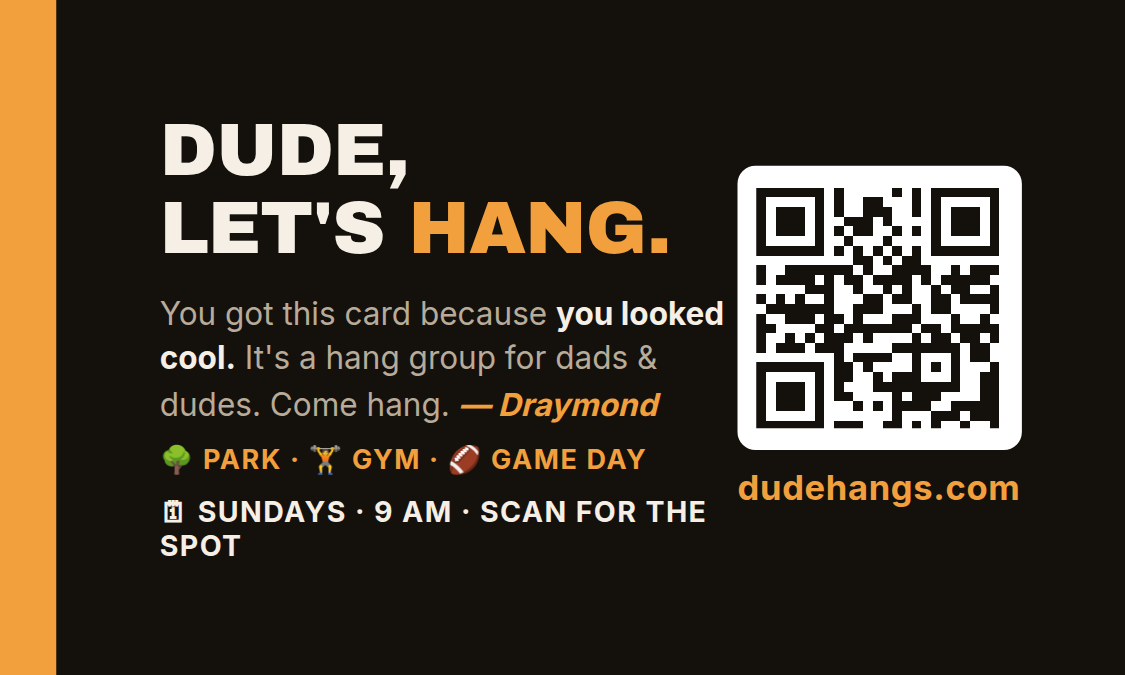
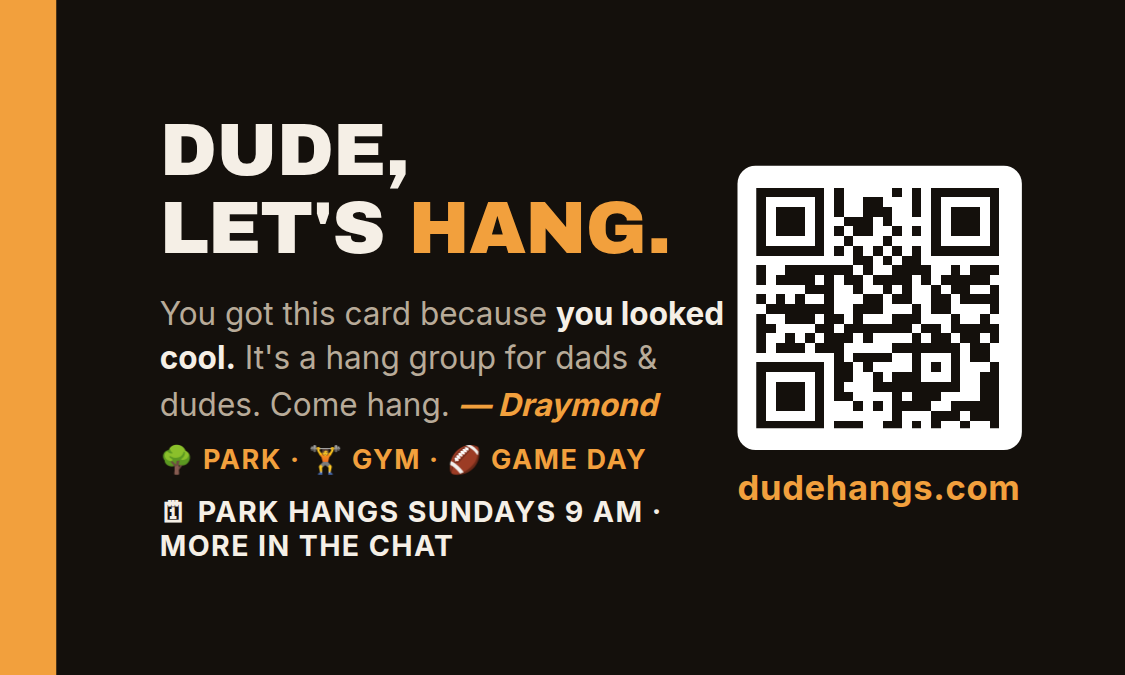
Card schedule line: attribute Sundays 9 AM to park hangs specifically
Claude-Session: https://claude.ai/code/session_01P9n5UKawwvj4epkGoSy427

Changed region(s): [[0.1244, 0.7156, 0.6222, 0.84]]

diff --git a/cards.html b/cards.html
@@ -130,7 +130,7 @@
       <h2>Dude,<br>let's <span class="pop">hang.</span></h2>
       <p class="why">You got this card because <strong>you looked cool.</strong> It's a hang group for dads &amp; dudes. Come hang. <span class="sig">— Draymond</span></p>
       <p class="hangs">🌳 Park · 🏋 Gym · 🏈 Game Day</p>
-      <p class="when">🗓 Sundays · 9 AM · scan for the spot</p>
+      <p class="when">🗓 Park hangs Sundays 9 AM · more in the chat</p>
     </div>
     <div class="right">
       <div class="qr"><svg xmlns="http://www.w3.org/2000/svg" viewBox="0 0 25 25" shape-rendering="crispEdges"><path d="M0 0h7v1H0zM8 0h1v1H8zM14 0h1v1H14zM16 0h1v1H16zM18 0h7v1H18zM0 1h1v1H0zM6 1h1v1H6zM8 1h1v1H8zM11 1h2v1H11zM16 1h1v1H16zM18 1h1v1H18zM24 1h1v1H24zM0 2h1v1H0zM2 2h3v1H2zM6 2h1v1H6zM8 2h1v1H8zM11 2h3v1H11zM16 2h1v1H16zM18 2h1v1H18zM20 2h3v1H20zM24 2h1v1H24zM0 3h1v1H0zM2 3h3v1H2zM6 3h1v1H6zM9 3h3v1H9zM13 3h1v1H13zM18 3h1v1H18zM20 3h3v1H20zM24 3h1v1H24zM0 4h1v1H0zM2 4h3v1H2zM6 4h1v1H6zM8 4h1v1H8zM10 4h2v1H10zM14 4h1v1H14zM16 4h1v1H16zM18 4h1v1H18zM20 4h3v1H20zM24 4h1v1H24zM0 5h1v1H0zM6 5h1v1H6zM9 5h1v1H9zM13 5h1v1H13zM18 5h1v1H18zM24 5h1v1H24zM0 6h7v1H0zM8 6h1v1H8zM10 6h1v1H10zM12 6h1v1H12zM14 6h1v1H14zM16 6h1v1H16zM18 6h7v1H18zM10 7h2v1H10zM13 7h1v1H13zM15 7h2v1H15zM0 8h1v1H0zM3 8h7v1H3zM11 8h1v1H11zM14 8h4v1H14zM20 8h1v1H20zM22 8h3v1H22zM0 9h1v1H0zM2 9h4v1H2zM7 9h1v1H7zM9 9h2v1H9zM12 9h4v1H12zM17 9h1v1H17zM19 9h5v1H19zM5 10h3v1H5zM10 10h1v1H10zM13 10h1v1H13zM15 10h1v1H15zM18 10h1v1H18zM20 10h2v1H20zM24 10h1v1H24zM0 11h1v1H0zM2 11h1v1H2zM4 11h1v1H4zM7 11h1v1H7zM11 11h2v1H11zM14 11h2v1H14zM18 11h2v1H18zM21 11h4v1H21zM1 12h7v1H1zM10 12h3v1H10zM16 12h1v1H16zM18 12h2v1H18zM24 12h1v1H24zM0 13h1v1H0zM3 13h3v1H3zM7 13h2v1H7zM10 13h1v1H10zM14 13h3v1H14zM20 13h1v1H20zM23 13h1v1H23zM0 14h2v1H0zM6 14h2v1H6zM9 14h7v1H9zM17 14h2v1H17zM20 14h5v1H20zM0 15h1v1H0zM3 15h1v1H3zM5 15h1v1H5zM7 15h3v1H7zM11 15h1v1H11zM16 15h1v1H16zM18 15h2v1H18zM21 15h2v1H21zM24 15h1v1H24zM0 16h1v1H0zM2 16h3v1H2zM6 16h3v1H6zM14 16h7v1H14zM22 16h2v1H22zM8 17h1v1H8zM10 17h4v1H10zM16 17h1v1H16zM20 17h1v1H20zM22 17h2v1H22zM0 18h7v1H0zM8 18h2v1H8zM11 18h1v1H11zM16 18h1v1H16zM18 18h1v1H18zM20 18h1v1H20zM24 18h1v1H24zM0 19h1v1H0zM6 19h1v1H6zM8 19h2v1H8zM12 19h1v1H12zM14 19h3v1H14zM20 19h1v1H20zM23 19h2v1H23zM0 20h1v1H0zM2 20h3v1H2zM6 20h1v1H6zM8 20h1v1H8zM12 20h9v1H12zM23 20h2v1H23zM0 21h1v1H0zM2 21h3v1H2zM6 21h1v1H6zM8 21h2v1H8zM14 21h1v1H14zM16 21h3v1H16zM23 21h2v1H23zM0 22h1v1H0zM2 22h3v1H2zM6 22h1v1H6zM10 22h1v1H10zM12 22h1v1H12zM14 22h4v1H14zM20 22h5v1H20zM0 23h1v1H0zM6 23h1v1H6zM14 23h1v1H14zM18 23h3v1H18zM22 23h3v1H22zM0 24h7v1H0zM8 24h3v1H8zM13 24h2v1H13zM16 24h1v1H16zM18 24h1v1H18zM21 24h1v1H21zM24 24h1v1H24z" fill="currentColor"/></svg></div>
